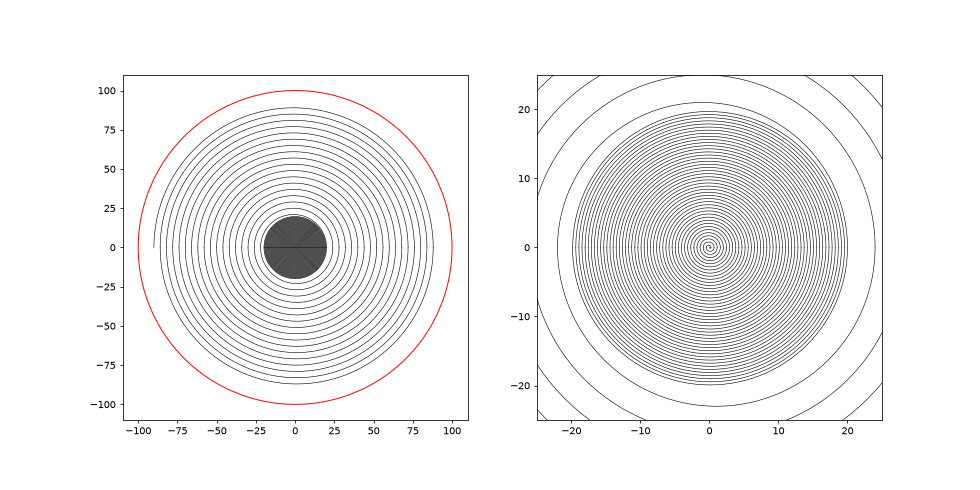
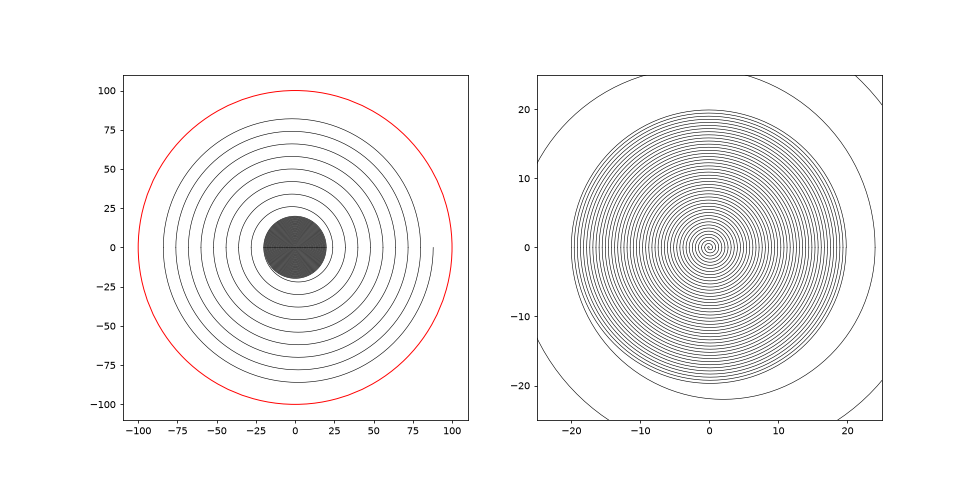
Maillage du plateau (G29 bilineaire 7x7) avant chaque impression, spirale au pas de 8 mm, firmware v1.25
Claude-Session: https://claude.ai/code/session_012EdznbhRS4ubS7iXg3NmBm

diff --git a/docs/make_test_spirale.py b/docs/make_test_spirale.py
@@ -1,6 +1,6 @@
 #!/usr/bin/env python3
 """Genere docs/test_premiere_couche_spirale.gcode : une SEULE ligne en spirale sur tout le plateau
-(pas de 4 mm : les lignes restent separees, on voit l'ecrasement partout), qui se termine par un
+(pas de 8 mm : les lignes restent separees, on voit l'ecrasement partout), qui se termine par un
 rond plein (pas de 0,45 mm) au centre. Spirale faite avec des demi-cercles G2/G3 (une centaine de lignes de G-code).
 
   python3 docs/make_test_spirale.py            -> rayon exterieur 90 mm, rond plein de 20 mm
@@ -11,7 +11,7 @@ from pathlib import Path
 
 R_OUT = float(sys.argv[1]) if len(sys.argv) > 1 else 90.0   # rayon exterieur de la spirale (mm)
 R_DISC = float(sys.argv[2]) if len(sys.argv) > 2 else 20.0  # rayon du rond plein central (mm)
-PITCH_OUT, PITCH_DISC = 4.0, 0.45                          # pas des deux spirales (mm)
+PITCH_OUT, PITCH_DISC = 8.0, 0.45                          # pas des deux spirales (mm)
 K = 0.040                                                  # mm de filament par mm de ligne (0,45 x 0,2 + ecrasement)
 F = 1500                                                   # 25 mm/s
 
@@ -49,7 +49,7 @@ def rotate180(arcs):
     return [((-s[0], -s[1]), (-e[0], -e[1]), (-c[0], -c[1]), sens) for s, e, c, sens in arcs]
 
 
-outer = reverse(spiral_out(PITCH_OUT, R_OUT))    # de l'exterieur vers le centre, pas de 4 mm
+outer = reverse(spiral_out(PITCH_OUT, R_OUT))    # de l'exterieur vers le centre, pas de 8 mm
 disc = reverse(spiral_out(PITCH_DISC, R_DISC))   # rond plein, de R_DISC vers le centre
 
 # --- raccord : la spirale exterieure s'arrete a "end1", le rond plein doit commencer au meme point ---
@@ -76,13 +76,14 @@ a = L.append
 a("; === Test de premiere couche : UNE SEULE ligne en spirale sur tout le plateau, puis un rond plein ===")
 a(f"; Spirale de rayon {R_OUT:.0f} mm, pas {PITCH_OUT:.1f} mm (lignes separees : on voit l'ecrasement partout),")
 a(f"; puis rond plein de {R_DISC:.0f} mm au centre (pas {PITCH_DISC} mm). PLA 210 C, ventilateur coupe.")
-a("; Duree : environ 6 minutes. Pendant la 1re couche : DOUBLE-CLIC sur la molette = reglage Z (Decalage Z).")
+a("; Duree : environ 4 minutes + palpage. Pendant la 1re couche : DOUBLE-CLIC sur la molette = reglage Z (Decalage Z).")
 a("; Lecture : lignes regulieres et de meme largeur partout = plateau plat et hauteur bonne.")
 a("M107")
 a("G90")
 a("M83")
 a("G28")
 a("G33 P1")
+a("G29                   ; palpage du plateau en plusieurs points (maillage)")
 a("M104 S210")
 a("M109 S210")
 a("G1 Z5 F3000")

diff --git a/marlin-config/Configuration.h b/marlin-config/Configuration.h
@@ -64,7 +64,7 @@
 
 // Numero de version de TON firmware (config + patchs Neva). Incremente a chaque mise a jour poussee sur la branche.
 // Affiche sur l'ecran de controle au demarrage (Configuration_adv.h, STARTUP_COMMANDS) et dans l'etiquette ci-dessous.
-#define NEVA_FW_VERSION "1.24"
+#define NEVA_FW_VERSION "1.25"
 
 // Author info of this build printed to the host during boot and M115
 #define STRING_CONFIG_H_AUTHOR "(NEVA-v" NEVA_FW_VERSION ")" // Etiquette visible au demarrage et dans M115 : sert a verifier le firmware flashe
@@ -1530,7 +1530,7 @@
 
 // Most probes should stay away from the edges of the bed, but
 // with NOZZLE_AS_PROBE this can be negative for a wider probing area.
-#define PROBING_MARGIN 10
+#define PROBING_MARGIN 30   // Neva : zone palpee = disque de rayon 100 - 30 = 70 mm (la tete reste loin des tours)
 
 // X and Y axis travel speed (mm/min) between probes
 #define XY_PROBE_FEEDRATE (66*60)
@@ -1920,7 +1920,7 @@
  */
 //#define AUTO_BED_LEVELING_3POINT
 //#define AUTO_BED_LEVELING_LINEAR
-//#define AUTO_BED_LEVELING_BILINEAR
+#define AUTO_BED_LEVELING_BILINEAR   // Neva : maillage du plateau (G29), lance avant chaque impression apres G28 + G33 P1
 //#define AUTO_BED_LEVELING_UBL
 //#define MESH_BED_LEVELING
 
@@ -2006,7 +2006,7 @@
 #if EITHER(AUTO_BED_LEVELING_LINEAR, AUTO_BED_LEVELING_BILINEAR)
 
   // Set the number of grid points per dimension.
-  #define GRID_MAX_POINTS_X 9
+  #define GRID_MAX_POINTS_X 7    // Neva : grille 7 x 7, seuls les points dans le disque palpable sont mesures (environ 30 points)
   #define GRID_MAX_POINTS_Y GRID_MAX_POINTS_X
 
   // Probe along the Y axis, advancing X after each column

diff --git a/marlin-config/Configuration_adv.h b/marlin-config/Configuration_adv.h
@@ -3780,6 +3780,7 @@
     "M83\n" \
     "G28\n" \
     "G33 P1\n" \
+    "G29\n" \
     "M104 S210\n" \
     "M109 S210\n" \
     "G1 Z5 F3000\n" \

diff --git a/README.md b/README.md
@@ -125,9 +125,11 @@ L'ordre du menu est écrit dans le code de Marlin, pas dans la config. Le dossie
 
 **Menu « Tests »** (en bas du menu principal, au repos) : scripts G-code intégrés au firmware, « Test 1ere couche » (carré de 60 × 60 mm, PLA 210 °C, ventilateur coupé) et « Test filament » (extrusion de 100 mm mesurée). Ils sont aussi dans `docs/test_premiere_couche.gcode` et `docs/test_filament.gcode`. Réglage dans `Configuration_adv.h` (`CUSTOM_MENU_MAIN`).
 
+**Palpage du plateau (maillage)** : `AUTO_BED_LEVELING_BILINEAR`, grille 7 × 7 sur le disque de rayon 70 mm (`PROBING_MARGIN 30`), soit environ 30 points. Chaque G-code de test et le G-code de début du slicer enchaînent `G28`, `G33 P1` (hauteur), `G29` (maillage), puis la chauffe ; `G29` active la correction pour toute l'impression. Après le flash : `M502`, `M500`. `G28` désactive le maillage ; `M420 V1` l'affiche.
+
 **Chargement automatique au repos** : machine au repos, quand le filament arrive devant le capteur, la buse chauffe à `NEVA_AUTOLOAD_TEMP` (210 °C) puis `M701` charge le filament. Patch dans `marlinui.cpp` ; commente `NEVA_AUTOLOAD_TEMP` dans `Configuration_adv.h` pour désactiver.
 
-**Version de ton firmware** : `NEVA_FW_VERSION` (dans `Configuration.h`, incrémenté à chaque mise à jour poussée sur la branche) s'affiche sur la ligne du bas de l'écran de contrôle au démarrage (« Fake Prusa fw v1.24 », via `STARTUP_COMMANDS` / `M117`). Il est aussi dans l'étiquette `(NEVA-vX.Y)` visible dans `M115` et au démarrage.
+**Version de ton firmware** : `NEVA_FW_VERSION` (dans `Configuration.h`, incrémenté à chaque mise à jour poussée sur la branche) s'affiche sur la ligne du bas de l'écran de contrôle au démarrage (« Fake Prusa fw v1.25 », via `STARTUP_COMMANDS` / `M117`). Il est aussi dans l'étiquette `(NEVA-vX.Y)` visible dans `M115` et au démarrage.
 
 Le logo de démarrage (`SHOW_CUSTOM_BOOTSCREEN`) se refait avec `python3 marlin-patches/make_bootscreen.py` (logo par défaut « PRUSA PRO HT-ish », `--texte` pour le texte seul, `--neva` pour « DAGOMA NEVA », aperçu dans `docs/bootscreen_apercu.png`) ou `python3 marlin-patches/make_bootscreen.py mon_logo.png` pour ta propre image (convertie en noir et blanc, 128×64).
 
